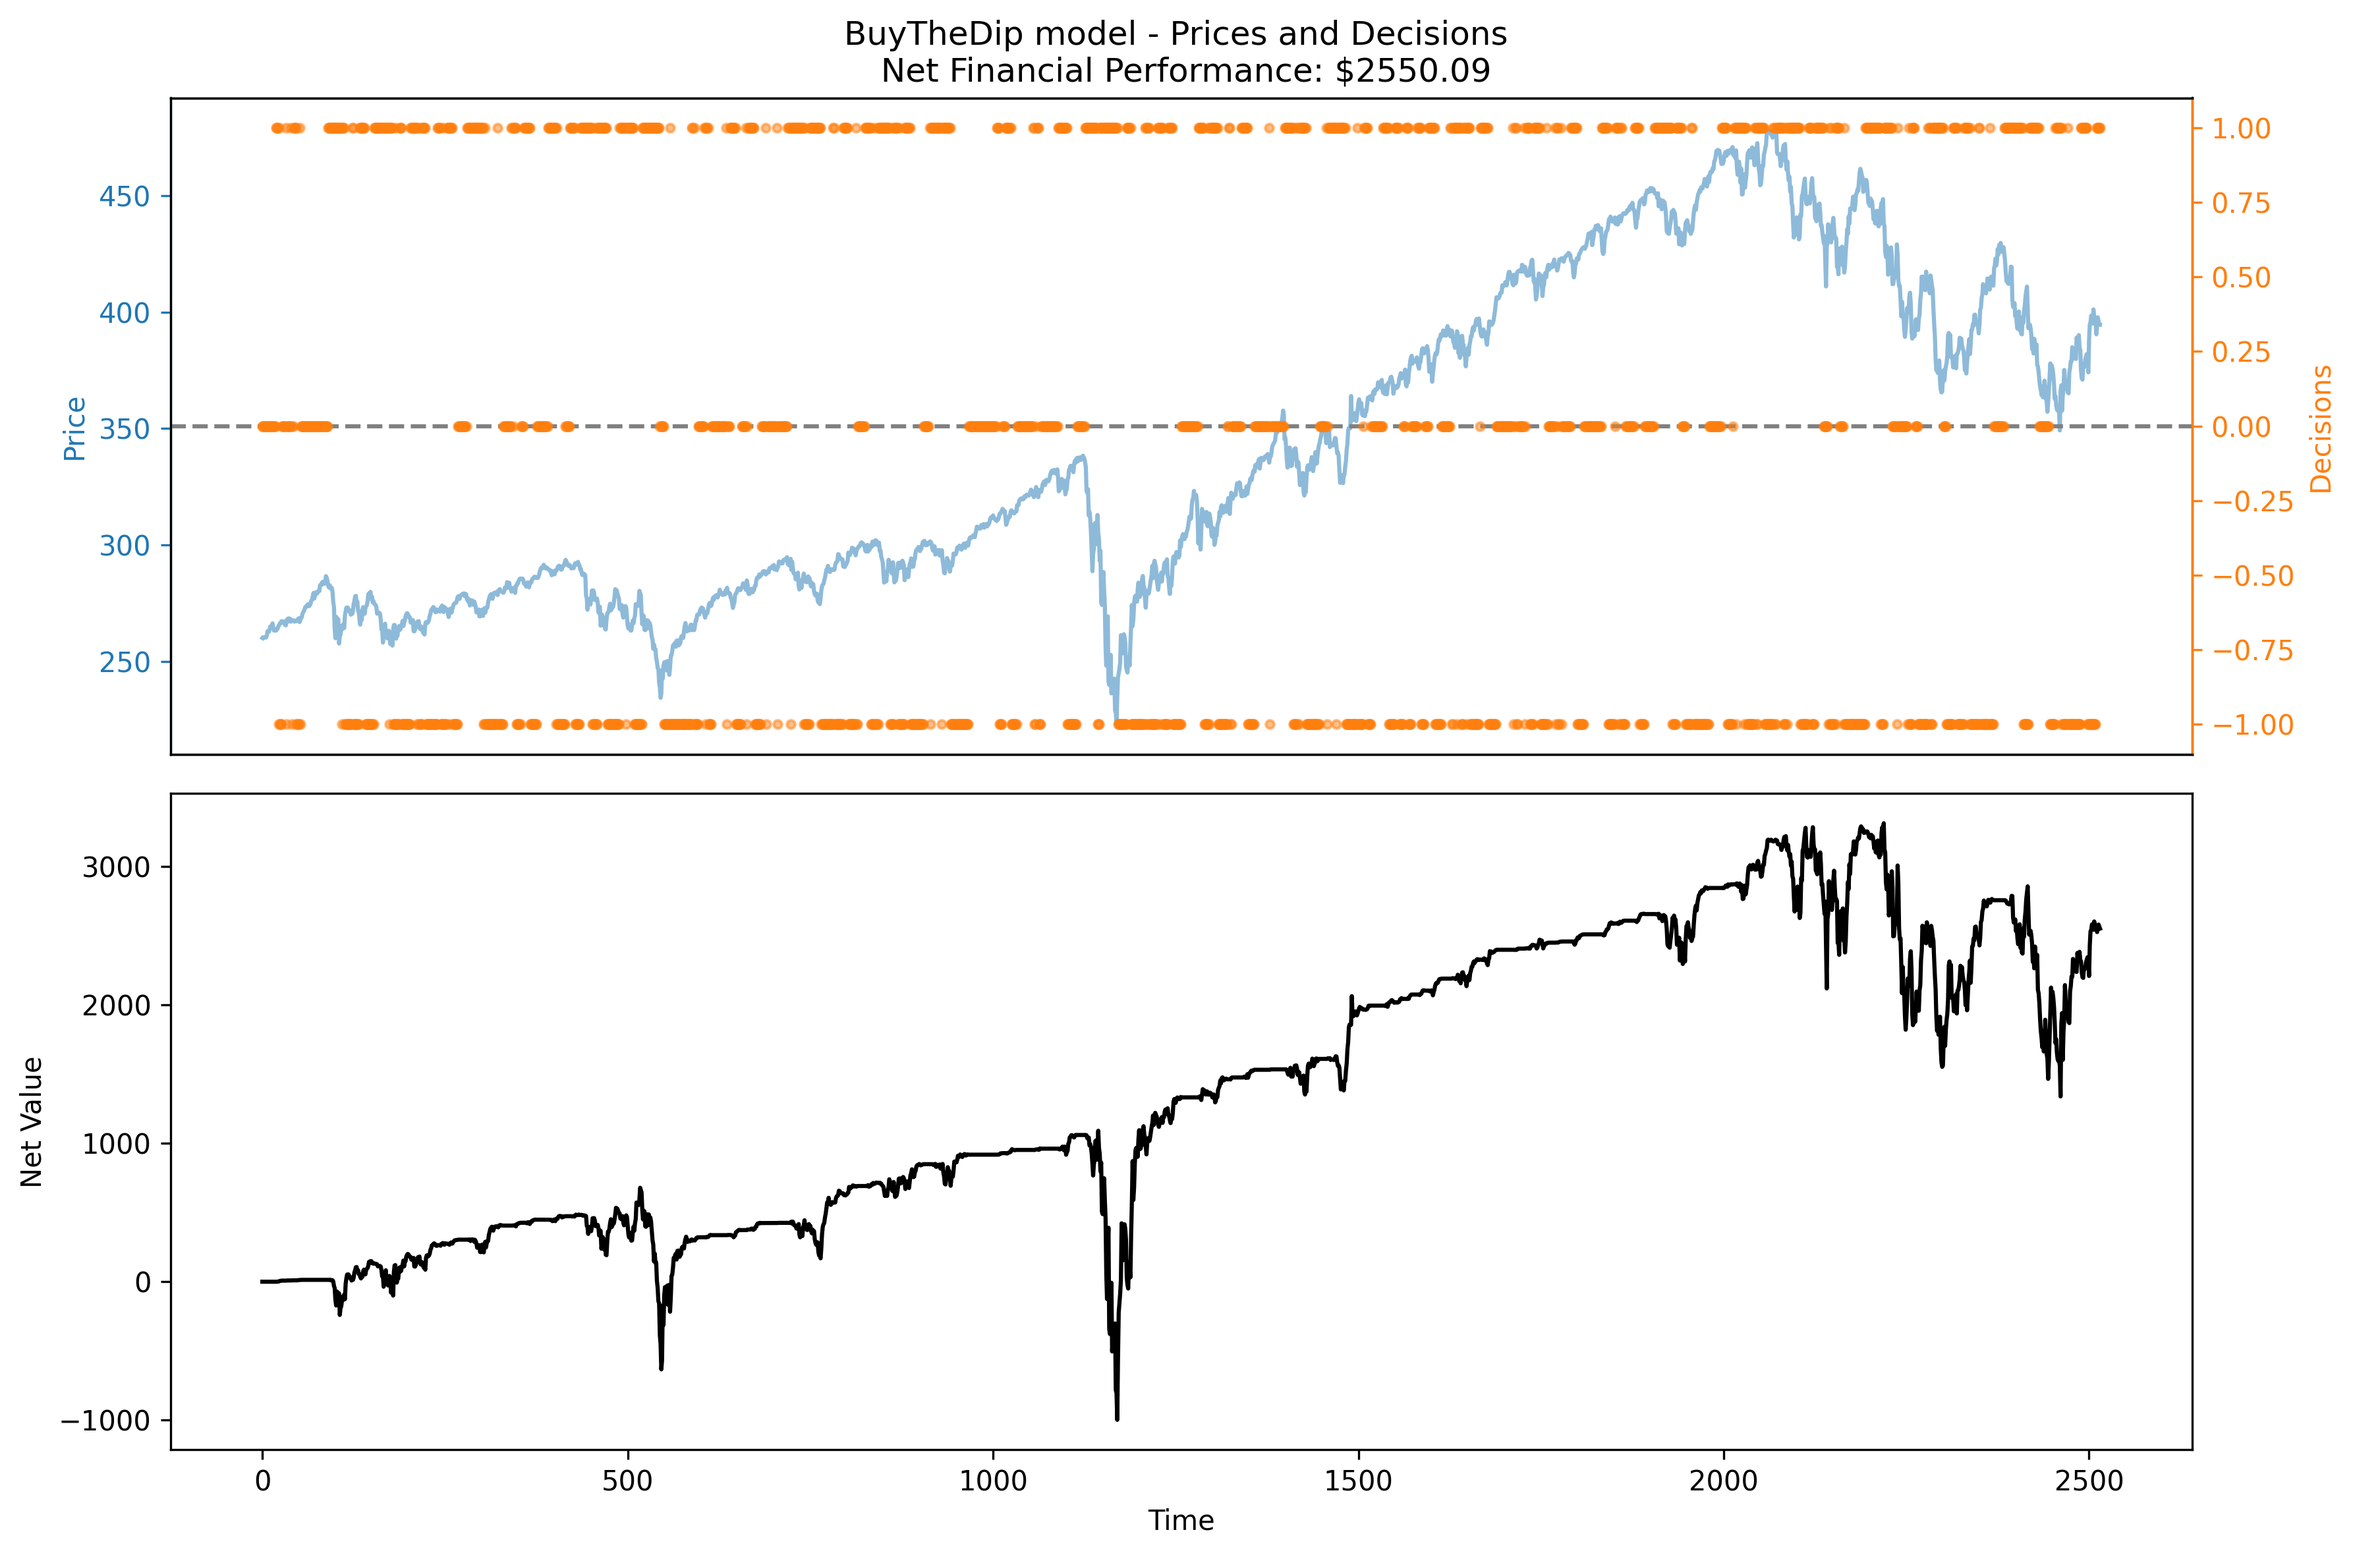
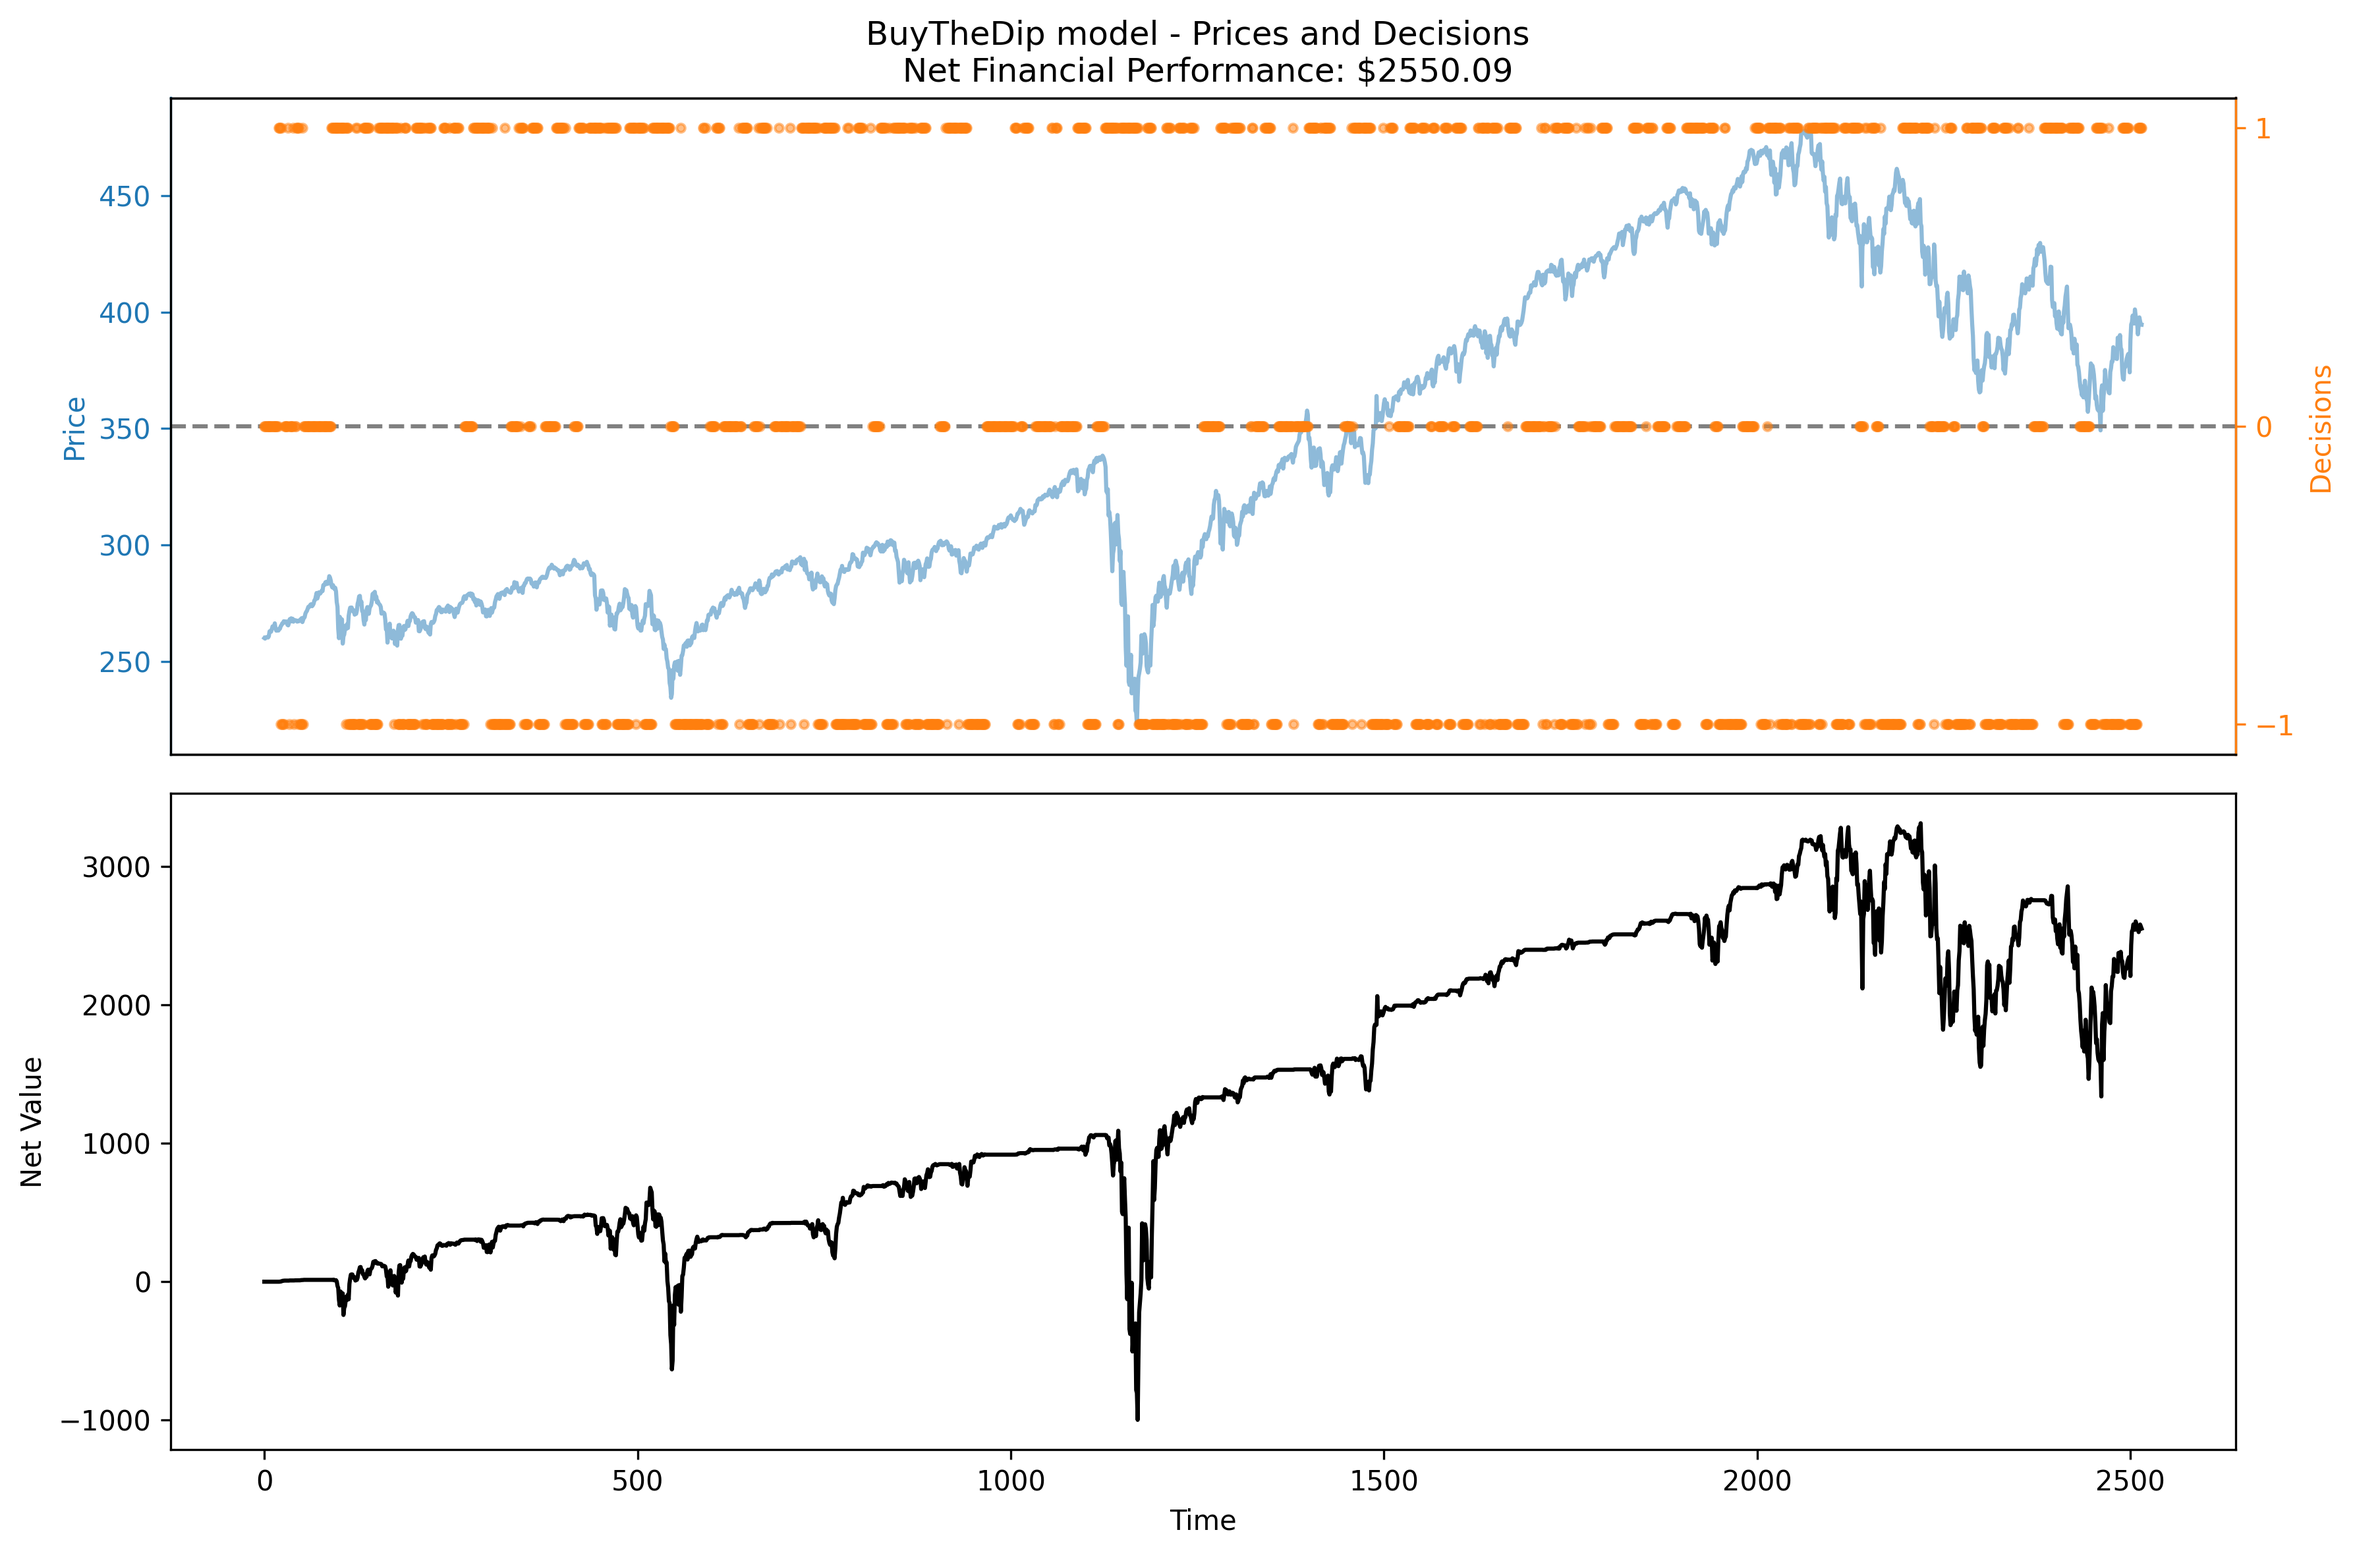
changed 'Decisions' axis to use integers only

diff --git a/src/evaluate_models.py b/src/evaluate_models.py
@@ -13,6 +13,7 @@ import math
 import numpy as np
 from numpy.random import Generator, PCG64
 import matplotlib.pyplot as plt
+from matplotlib.ticker import MaxNLocator
 plt.ioff() # disable interactive plotting
 
 # internal
@@ -233,6 +234,7 @@ def plot_decisions(
         color=value_color,
         labelcolor=value_color,
     )
+    ax2.yaxis.set_major_locator(MaxNLocator(integer=True))
     
     # add title
     model_name = type(model).__name__
